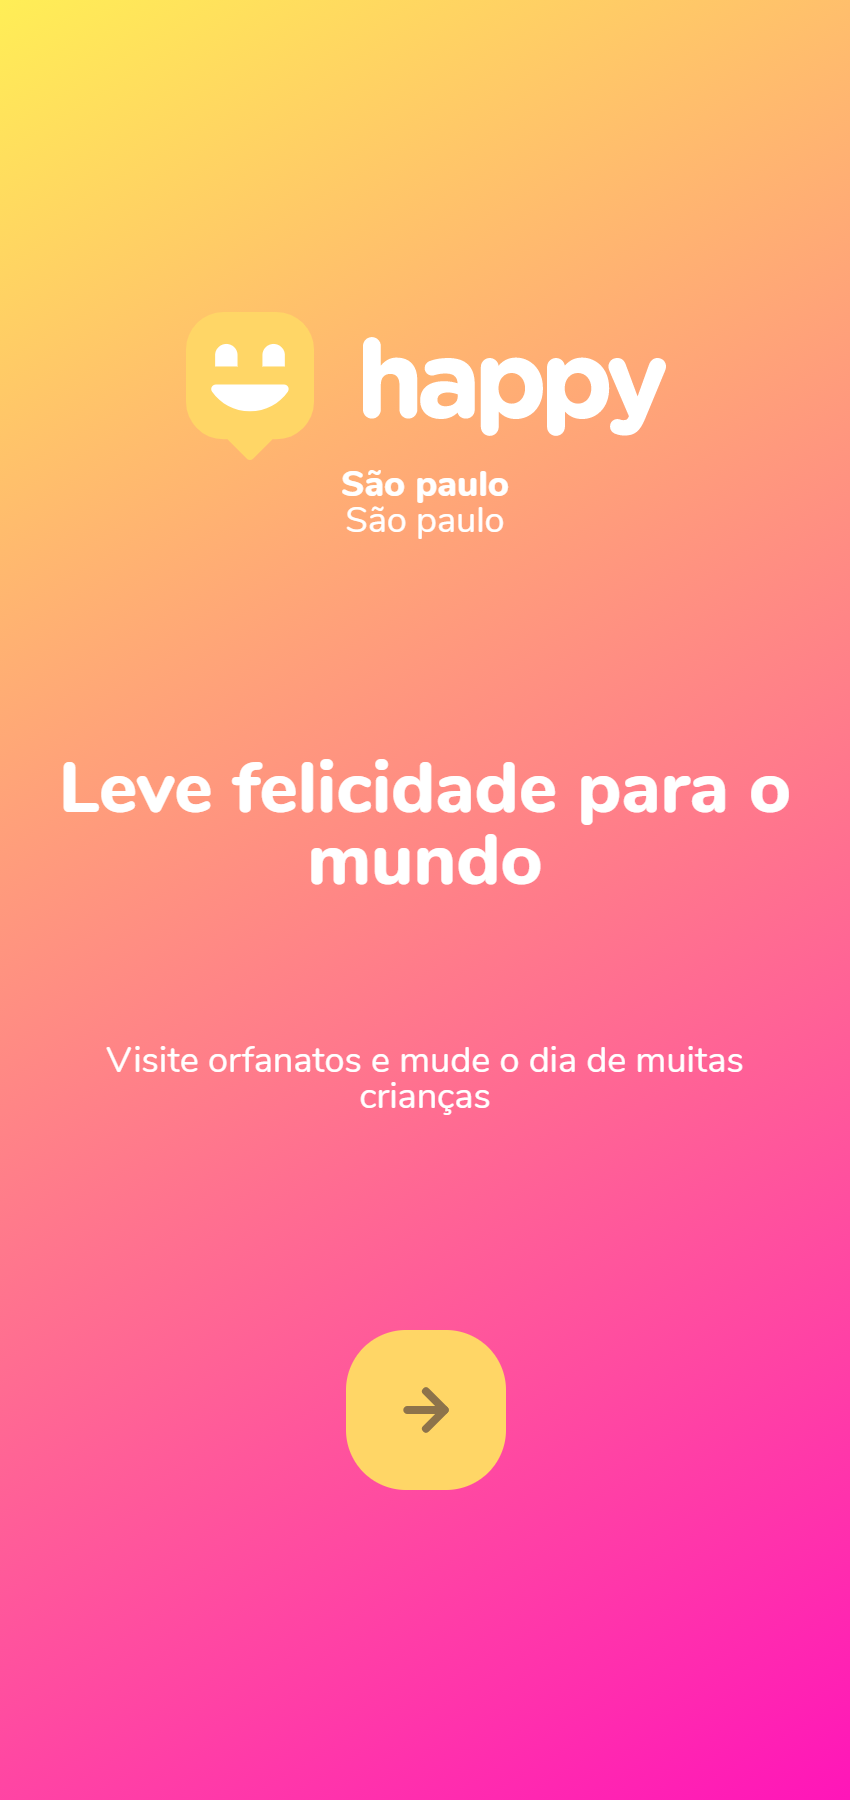
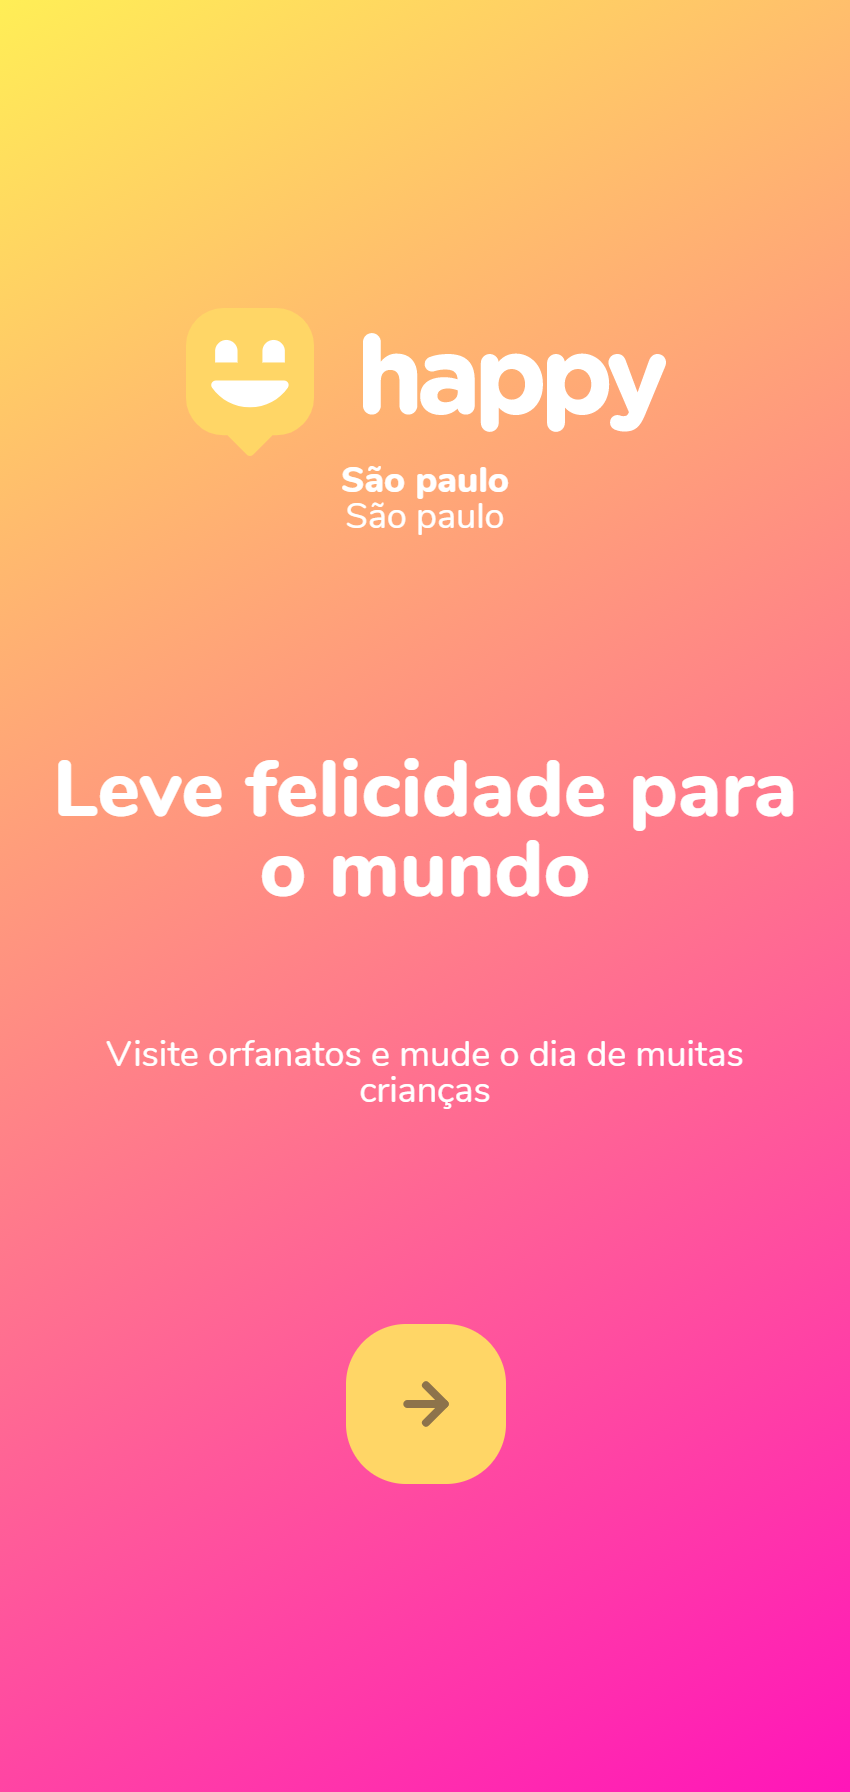
added to desktop screen

diff --git a/public/css/page-landing.css b/public/css/page-landing.css
@@ -1,8 +1,7 @@
 #page-landing {
-    /*background: linear-gradient(329.54deg, #29b6d1 0%, #00c7c7 100%) no-repeat;*/
-    /*background: linear-gradient(329.54deg, #1498b3 0%, #84d8ff 100%) no-repeat;*/
+    /*background: linear-gradient(329.54deg, #29b6d1 0%, #00c7c7 100%) no-repeat; ORIGINAL*/
     background: linear-gradient(329.54deg, #ff15b9 0%, #ffee56 100%) no-repeat;
-    /*fundo: degrade linear(degraus de rotação, cor inicial do 0% para cor secundaria 100%) não repita na pagina*/
+    /*fundo: degrade linear((61°)degraus de rotação, cor inicial do 0% para cor secundaria 100%) não repita na pagina*/
 
     text-align: center;
     min-height: 100vh;
@@ -12,7 +11,7 @@
 #container {
     margin: auto;
 
-    width: 90%;
+    width: min(90%, 112rem);
 }
 .location, h1, .visit p {
     height: 16vh;
@@ -46,6 +45,8 @@
 }
 main h1 {
     animation-delay: 150ms;
+    font-size: clamp(4rem, 8vw, 8.4rem);
+    /*         clamp(min, ideal, max) */
 }
 .visit p {
     animation-delay: 200ms;
@@ -54,5 +55,53 @@ main h1 {
     animation-delay: 250ms;
 }
 .visit a:hover {
-    background: #ff7ed8;
+    background: #ff99ff;
+}
+
+
+
+/* Desktop version */
+@media (min-width: 760px) {
+/* 760px para cima faz o que esta aqui dentro */
+    #container {
+        padding: 5rem 2rem;
+
+        background: url("../images/bg.svg") no-repeat 80% / clamp(30rem, 54vw, 56rem);
+        /* shorthand background: image repeat position / size */
+    }
+    header {
+        display: flex;
+        align-items: center;
+        justify-content: space-between;
+    }
+    .location, h1, .visit p {
+        height: initial;/* Da reset para antes de aplicar as regras css */
+        text-align: initial;
+    }
+    .location {
+        text-align: right;
+        font-size: 2.4rem;
+        line-height: 1.5;
+    }
+    main h1 {
+        font-weight: bold;
+        line-height: .88;
+
+        margin: clamp(10%, 9vh, 12%) 0 4rem;
+
+        width: min(300px, 80%); /* minimo de largura */
+    }
+    .visit {
+        display: flex;
+        align-items: center;
+        justify-content: space-between;
+    }
+    .visit p {
+        font-size: 2.4rem;
+        line-height: 1.5;
+        width: clamp(20rem, 20vw, 30rem);
+    }
+    .visit a {
+        margin: initial;
+    }
 }

diff --git a/index.html b/index.html
@@ -2,7 +2,7 @@
 <html lang="pt-br">
 <head>
     <meta charset="UTF-8">
-    <meta name="viewport" content="width=device-width, initial-scale=1.0"><!--adaptável para cel & tablets-->
+    <meta name="viewport" content="width=device-width, initial-scale=1.0"><!--adaptável para cel & tablets (ativa o @media)-->
     <title>Happy</title>
 
     <link rel="icon" href="./public/images/logo-icon.png">

diff --git a/README.md b/README.md
@@ -5,17 +5,17 @@
 <!-- <h4 align="center">Projeto web construído durante o Next Level Week #03-Discovery com a Rocketseat/maykbrito.</h4> -->
 <p align="center">
   <a href="">
-    <img alt="Platform" src="https://img.shields.io/static/v1?label=Plataform&message=Mobile/PC&color=ff69b4&labelColor=ffdc63">
+    <img alt="Platform" src="https://img.shields.io/static/v1?label=Plataform&message=Mobile/PC&color=ff69b4&labelColor=ffee56">
   </a>
   <a aria-label="Completed" href="https://nextlevelweek.com/episodios/omnistack/edicao/2">
[2 lines of base64/hex data omitted]
   </a>
-  <img alt="Repository size" src="https://img.shields.io/github/repo-size/NyctibiusVII/NLW-3-Discovery?color=ff69b4&labelColor=ffdc63">
+  <img alt="Repository size" src="https://img.shields.io/github/repo-size/NyctibiusVII/NLW-3-Discovery?color=ff69b4&labelColor=ffee56">
   <a href="https://github.com/NyctibiusVII/NLW-3-Discovery/blob/master/LICENSE">
-    <img alt="License" src="https://img.shields.io/static/v1?label=License&message=MIT&color=ff69b4&labelColor=ffdc63">
+    <img alt="License" src="https://img.shields.io/static/v1?label=License&message=MIT&color=ff69b4&labelColor=ffee56">
   </a>
   <a href="https://picpay.me/Matheus_nyctibius_vii">
-  <img alt="Donate" src="https://img.shields.io/static/v1?label=$&message=Donate&color=ff69b4&labelColor=ffdc63">
+  <img alt="Donate" src="https://img.shields.io/static/v1?label=$&message=Donate&color=ff69b4&labelColor=ffee56">
   </a>
 </p>
 <p align="center">
@@ -46,8 +46,9 @@ This project was developed with the following technologies:
 ## Layout 🚧
 #### Web Screenshot
 <div style="display: flex; flex-direction: 'column'; align-items: 'center';">
-   <img src="./.github/desktop_random.png" width="400px">
-   <img src="./.github/desktop_random.png" width="400px">
+<!-- Responsive, 1440 x 782, 70% (Laptop L - 1440px)-->
+   <img src="./.github/desktop-index.png" width="400px">
+   <img src="./.github/desktop-random.png" width="400px">
 </div>
 
 #### Mobile Screenshot
@@ -86,7 +87,7 @@ This project is under the MIT license. See the archive [LICENSE](https://github.
 
 <p align="left">	
    <a href="https://www.linkedin.com/in/matheus-vidigal-nyctibiusvii/">
-      <img alt="Matheus Vidigal / Linkedin" src="https://img.shields.io/badge/-Matheus Vidigal-ffdc63?style=flat&logo=Linkedin&logoColor=414141" />
+      <img alt="Matheus Vidigal / Linkedin" src="https://img.shields.io/badge/-Matheus Vidigal-ffee56?style=flat&logo=Linkedin&logoColor=414141" />
    </a>
    <a href="https://mail.google.com/mail/u/1/#inbox?compose=GTvVlcSGLCKpKJfwPsKKqzXBplKkGtCLvCQcFWdWxCxQFfkHzzjVkgzrMFPBgKBmWFHvrjrCsMqSH">
       <img alt="Matheus Vidigal / Linkedin" src="https://img.shields.io/badge/-Matheus Vidigal-ff69b4?style=flat&logo=Gmail&logoColor=ffffff" />
